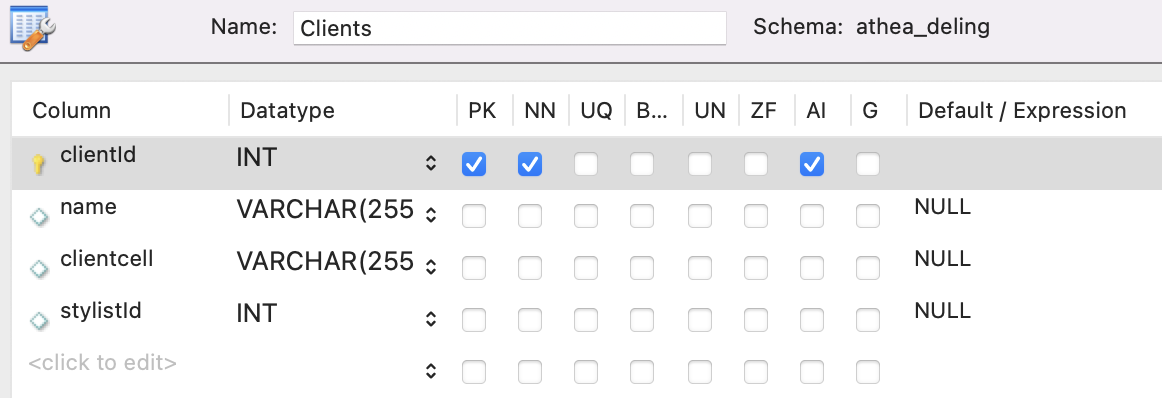
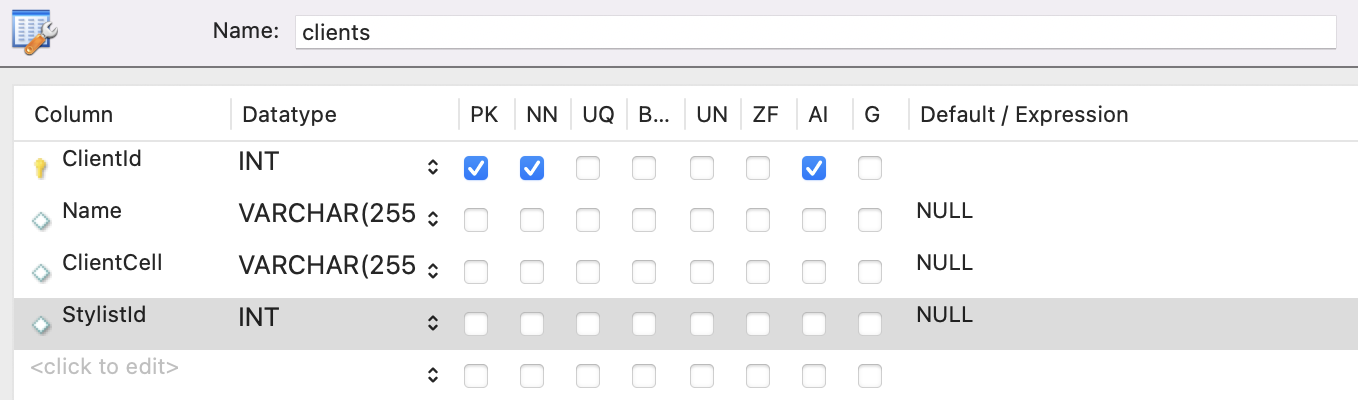
update .sql add readme fixes

diff --git a/README.md b/README.md
@@ -16,9 +16,9 @@ This application allows for the salon owner to see a list of current stylists an
 ### Setup Instructions
 #### Database Setup
 1. Instal MySQL, to do so follow these [instructions](https://www.learnhowtoprogram.com/c-and-net/getting-started-with-c/installing-and-configuring-mysql)
-2. Once installed follow these [instructions]() to set up your database
+2. Once installed follow these [instructions](https://www.learnhowtoprogram.com/c-and-net-part-time/database-basics/creating-a-test-database-exporting-and-importing-databases-with-mysql-workbench) to set up your database by importing athea_deling.sql to your database
 3. You will name your  firstname_lastname with your actual first and last name
-4. Within this database you will create two tables one labeled Stylists and the other Clients. Here is what they should look like
+4. Within this database you will create two tables one labeled stylists and the other clients. Here is what they should look like
 
 ![screenshot of Stylists table](HairSalon/wwwroot/images/stylist_tabel.png "screenshot showing columns and column characteristics for Stylists table")
 
@@ -29,9 +29,9 @@ This application allows for the salon owner to see a list of current stylists an
 2. From there you will clone it on to you personal computer
 3. Once cloned you will want to navigate to HairSalon
 4. Once in the terminal for HairSalon you will want to run **dotnet restore** and **dotnet run build**. From there you will run two more commands **dotnet add package Microsoft.EntityFrameworkCore -v 6.0.0** and **dotnet add package Pomelo.EntityFrameworkCore.MySql -v 6.0.0**.
-5. When you are done running all those commands you will want to add a new file to HairSalon called appsetting.json, once the file is created you will add this code
+5. When you are done running all those commands you will want to add a new file to HairSalon called appsettings.json, once the file is created you will add this code
 
-```jason
+```json
 {
   "ConnectionStrings": {
       "DefaultConnection": "Server=localhost;Port=3306;database=firstname_lastname;uid=[uid];pwd=[pwd];"
